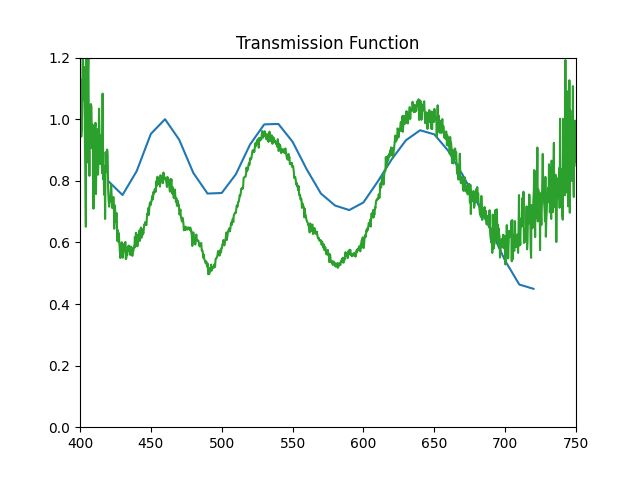
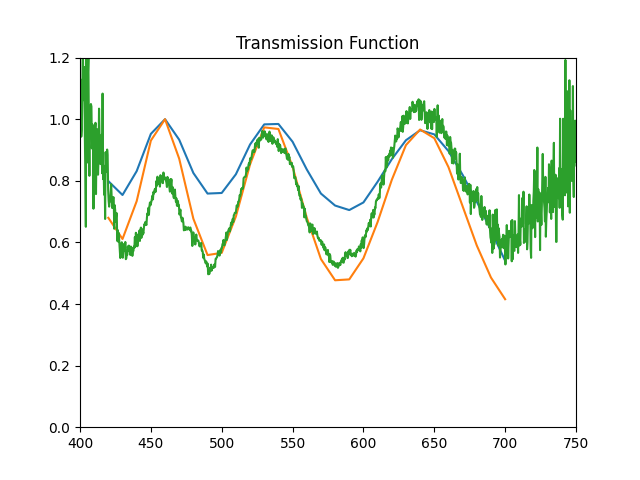
add contour plots, solved angle problem

diff --git a/LaserDiffractionTest.py b/LaserDiffractionTest.py
@@ -9,32 +9,25 @@ nm=10**-9
 cm=10**-2
 
 wavelength=633*nm
-input=input_parameters(wavelength,0.05,np.radians(-8.54),np.radians(-8.54),20*um)
-output=output_parameters(0.5,0,0,200)
+input=input_parameters(wavelength,0.05,np.radians(8.54),np.radians(-8.54),20*um)
+output=output_parameters(0.2,np.radians(8.54),np.radians(-8.54),200)
 
 screen_distance=7
-x_distance=screen_distance*np.tan(output.angle_x_array)
-y_distance=screen_distance*np.tan(output.angle_y_array)
-x_distance=output.angle_x_array_deg
-y_distance=output.angle_y_array_deg
+x_distance=np.degrees(output.angle_x_array_meshed)
+y_distance=np.degrees(output.angle_y_array_meshed)
+x_distance=screen_distance*np.tan(output.angle_x_array_meshed)
+y_distance=screen_distance*np.tan(output.angle_y_array_meshed)
 
 #Red Laser On Direction
+
 dmd=DMD_parameters('Standard',10.8*um,0.98,np.radians(12))
 [diffraction_image_on, _, E2_grating_on, E2_envelope_on] = calculate_diffraction_pattern_image(input, output,
                                                                                                     dmd)
-#Red Laser Off Direction
-dmd=DMD_parameters('Standard',10.8*um,0.98,np.radians(-12))
-[diffraction_image_off, _, E2_grating_off, E2_envelope_off] = calculate_diffraction_pattern_image(input, output,
-                                                                                                    dmd)
-#Red Laser On Direction
-dmd=DMD_parameters('Standard',10.8*um,0.98,np.radians(0))
-[diffraction_image_0, _, E2_grating_0, E2_envelope_0] = calculate_diffraction_pattern_image(input, output,
-                                                                                                    dmd)
 #plot results
 fig, ((ax1, ax2), (ax3, ax4)) = plt.subplots(2, 2)
-im1=ax1.imshow(E2_grating_on+E2_grating_off+E2_grating_0,extent=(x_distance[0],x_distance[-1],y_distance[0],y_distance[-1]))
-im2=ax2.imshow(E2_envelope_on+E2_envelope_off+E2_envelope_0,extent=(x_distance[0],x_distance[-1],y_distance[0],y_distance[-1]))
-im3=ax3.imshow(diffraction_image_on+diffraction_image_off+diffraction_image_0,extent=(x_distance[0],x_distance[-1],y_distance[0],y_distance[-1]), vmin=0, vmax=10)
+im1=ax1.contourf(x_distance,y_distance,E2_grating_on,500)
+im2=ax2.contourf(x_distance,y_distance,E2_envelope_on,500)
+im3=ax3.contourf(x_distance,y_distance,diffraction_image_on,500,vmax=5)
 #ax2.grid(color='w', linestyle='-', linewidth=2)
 fig.colorbar(im1, ax=ax1)
 fig.colorbar(im2, ax=ax2)
@@ -44,6 +37,91 @@ ax1.set_title('Grating Orders')
 ax2.set_title('Mirror Envelope')
 ax3.set_title('Combined Diffraction Pattern')
 plt.show()
-fig.savefig('Red.png')
+fig.savefig('Red_on.png')
 
-#
+ #Red Laser Off Direction
+dmd=DMD_parameters('Standard',10.8*um,0.98,np.radians(-12))
+output=output_parameters(0.2,np.radians(-22),np.radians(22),200)
+screen_distance=7
+x_distance=np.degrees(output.angle_x_array_meshed)
+y_distance=np.degrees(output.angle_y_array_meshed)
+# x_distance=screen_distance*np.tan(output.angle_x_array_meshed)
+# y_distance=screen_distance*np.tan(output.angle_y_array_meshed)
+[diffraction_image_off, _, E2_grating_off, E2_envelope_off] = calculate_diffraction_pattern_image(input, output,
+                                                                                                     dmd)
+
+#plot results
+fig, ((ax1, ax2), (ax3, ax4)) = plt.subplots(2, 2)
+im1=ax1.contourf(x_distance,y_distance,E2_grating_off,500)
+im2=ax2.contourf(x_distance,y_distance,E2_envelope_off,500)
+im3=ax3.contourf(x_distance,y_distance,diffraction_image_off,500,vmax=5)
+#ax2.grid(color='w', linestyle='-', linewidth=2)
+fig.colorbar(im1, ax=ax1)
+fig.colorbar(im2, ax=ax2)
+fig.colorbar(im3, ax=ax3)
+
+ax1.set_title('Grating Orders')
+ax2.set_title('Mirror Envelope')
+ax3.set_title('Combined Diffraction Pattern')
+plt.show()
+fig.savefig('Red_off.png')
+
+####################Green
+
+wavelength=533*nm
+input=input_parameters(wavelength,0.05,np.radians(8.54),np.radians(-8.54),20*um)
+output=output_parameters(0.2,np.radians(8.54),np.radians(-8.54),200)
+
+screen_distance=7
+x_distance=np.degrees(output.angle_x_array_meshed)
+y_distance=np.degrees(output.angle_y_array_meshed)
+x_distance=screen_distance*np.tan(output.angle_x_array_meshed)
+y_distance=screen_distance*np.tan(output.angle_y_array_meshed)
+
+#Green Laser On Direction
+
+dmd=DMD_parameters('Standard',10.8*um,0.98,np.radians(12))
+[diffraction_image_on, _, E2_grating_on, E2_envelope_on] = calculate_diffraction_pattern_image(input, output,
+                                                                                                    dmd)
+#plot results
+fig, ((ax1, ax2), (ax3, ax4)) = plt.subplots(2, 2)
+im1=ax1.contourf(x_distance,y_distance,E2_grating_on,500)
+im2=ax2.contourf(x_distance,y_distance,E2_envelope_on,500)
+im3=ax3.contourf(x_distance,y_distance,diffraction_image_on,500,vmax=5)
+#ax2.grid(color='w', linestyle='-', linewidth=2)
+fig.colorbar(im1, ax=ax1)
+fig.colorbar(im2, ax=ax2)
+fig.colorbar(im3, ax=ax3)
+
+ax1.set_title('Grating Orders')
+ax2.set_title('Mirror Envelope')
+ax3.set_title('Combined Diffraction Pattern')
+plt.show()
+fig.savefig('Green_on.png')
+
+ #Green Laser Off Direction
+dmd=DMD_parameters('Standard',10.8*um,0.98,np.radians(-12))
+output=output_parameters(0.2,np.radians(-22),np.radians(22),200)
+screen_distance=7
+x_distance=np.degrees(output.angle_x_array_meshed)
+y_distance=np.degrees(output.angle_y_array_meshed)
+# x_distance=screen_distance*np.tan(output.angle_x_array_meshed)
+# y_distance=screen_distance*np.tan(output.angle_y_array_meshed)
+[diffraction_image_off, _, E2_grating_off, E2_envelope_off] = calculate_diffraction_pattern_image(input, output,
+                                                                                                     dmd)
+
+#plot results
+fig, ((ax1, ax2), (ax3, ax4)) = plt.subplots(2, 2)
+im1=ax1.contourf(x_distance,y_distance,E2_grating_off,500)
+im2=ax2.contourf(x_distance,y_distance,E2_envelope_off,500)
+im3=ax3.contourf(x_distance,y_distance,diffraction_image_off,500,vmax=5)
+#ax2.grid(color='w', linestyle='-', linewidth=2)
+fig.colorbar(im1, ax=ax1)
+fig.colorbar(im2, ax=ax2)
+fig.colorbar(im3, ax=ax3)
+
+ax1.set_title('Grating Orders')
+ax2.set_title('Mirror Envelope')
+ax3.set_title('Combined Diffraction Pattern')
+plt.show()
+fig.savefig('Green_off.png')

diff --git a/main.py b/main.py
@@ -27,7 +27,7 @@ for i in np.arange(np.size(wavelengths)):
      [diffraction_image,total_power_collected,E2_grating,E2_envelope]=calculate_diffraction_pattern_image(input, output, dmd)
      transmission_collected[i] = total_power_collected
 
-     [diffraction_image_int,total_power_collected_integrated,E2_grating_int,E2_envelope_int]=diff_image_integrated_input_NA(input, output, dmd, 20) # 20-50 ok
+     [diffraction_image_int,total_power_collected_integrated,E2_grating_int,E2_envelope_int]=diff_image_integrated_input_NA(input, output, dmd, 1) # 20-50 ok
      transmission_collected_integrated[i] = total_power_collected_integrated
      print('Wavelength =' +str(input.wavelength/nm)+'nm')
 
@@ -38,9 +38,9 @@ transmission_experimental=experimental_data.loc[:,'Transmission'].to_numpy()
 
 #plot results
 fig, ((ax1, ax2), (ax3, ax4)) = plt.subplots(2, 2)
-im1=ax1.imshow(E2_grating,extent=(output.angle_x_array_deg[0],output.angle_x_array_deg[-1],output.angle_y_array_deg[0],output.angle_y_array_deg[-1]))
-im2=ax2.imshow(E2_envelope,extent=(output.angle_x_array_deg[0],output.angle_x_array_deg[-1],output.angle_y_array_deg[0],output.angle_y_array_deg[-1]))
-im3=ax3.imshow(diffraction_image,extent=(output.angle_x_array_deg[0],output.angle_x_array_deg[-1],output.angle_y_array_deg[0],output.angle_y_array_deg[-1]))
+im1=ax1.contourf(np.degrees(output.angle_x_array_meshed),np.degrees(output.angle_y_array_meshed),E2_grating,500)
+im2=ax2.contourf(np.degrees(output.angle_x_array_meshed),np.degrees(output.angle_y_array_meshed),E2_envelope,500)
+im3=ax3.contourf(np.degrees(output.angle_x_array_meshed),np.degrees(output.angle_y_array_meshed),diffraction_image,500)
 
 ax4.plot(wavelengths/nm,transmission_collected/max(transmission_collected))
 ax4.plot(wavelengths_experimental,transmission_experimental)
@@ -54,12 +54,12 @@ fig.colorbar(im3, ax=ax3)
 ax1.set_title('Grating Orders')
 ax2.set_title('Mirror Envelope')
 ax3.set_title('Combined Diffraction Pattern')
-fig.savefig('Figure_single.png')
+#fig.savefig('Figure_single.png')
 
 fig, ((ax1, ax2), (ax3, ax4)) = plt.subplots(2, 2)
-im1=ax1.imshow(E2_grating_int,extent=(output.angle_x_array_deg[0],output.angle_x_array_deg[-1],output.angle_y_array_deg[0],output.angle_y_array_deg[-1]))
-im2=ax2.imshow(E2_envelope_int,extent=(output.angle_x_array_deg[0],output.angle_x_array_deg[-1],output.angle_y_array_deg[0],output.angle_y_array_deg[-1]))
-im3=ax3.imshow(diffraction_image_int,extent=(output.angle_x_array_deg[0],output.angle_x_array_deg[-1],output.angle_y_array_deg[0],output.angle_y_array_deg[-1]))
+im1=ax1.contourf(np.degrees(output.angle_x_array_meshed),np.degrees(output.angle_y_array_meshed),E2_grating_int,100)
+im2=ax2.contourf(np.degrees(output.angle_x_array_meshed),np.degrees(output.angle_y_array_meshed),E2_envelope_int,100)
+im3=ax3.contourf(np.degrees(output.angle_x_array_meshed),np.degrees(output.angle_y_array_meshed),diffraction_image_int,100)
 ax4.plot(wavelengths/nm,transmission_collected_integrated/max(transmission_collected_integrated))
 ax4.plot(wavelengths_experimental,transmission_experimental)
 ax4.set_xlim((420,700))
@@ -72,7 +72,7 @@ fig.colorbar(im3, ax=ax3)
 ax1.set_title('Grating Orders')
 ax2.set_title('Mirror Envelope')
 ax3.set_title('Combined Diffraction Pattern')
-fig.savefig('Figure_integrated.png')
+#fig.savefig('Figure_integrated.png')
 
 
 
@@ -83,6 +83,6 @@ plt.plot(wavelengths_experimental,transmission_experimental)
 plt.xlim((400,750))
 plt.ylim((0,1.2))
 plt.title('Transmission Function')
-fig.savefig('Transmission_Plot.png')
+#fig.savefig('Transmission_Plot.png')
 plt.show()
 

diff --git a/functions.py b/functions.py
@@ -12,8 +12,6 @@ import time
 # sort normalization of E so that can calculate total power, and transmission as a percentage.
 # speed up timing
 # run other tests e.g. transmission vs NA, vs beam size, vs beam angle
-# save figures?
-#check mirror off direction
 #scaling of power/transmission
 
 class DMD_parameters:
@@ -64,7 +62,7 @@ class output_parameters:
 class vector:
     def __init__(self, angle_x, angle_y, direction):
         self.z = direction*1 / \
-            np.sqrt(np.tan(angle_x)** 2 + np.tan(angle_y) ** 2 + 1)
+            np.sqrt(1-np.tan(angle_x)** 2-np.tan(angle_y) ** 2)
         self.x = self.z * np.tan(angle_x)
         self.y = self.z * np.tan(angle_y)
 
@@ -73,7 +71,7 @@ def envelope_function(input, output, dmd):
     #https://www.biorxiv.org/content/10.1101/2020.10.02.323527v1.supplementary-material
     #https://www.biorxiv.org/content/10.1101/2020.07.27.223941v3.supplementary-material
 
-    #doesnt work for all mirror angles
+    #doesnt work for all mirror angles DO NOT TRUST THIS!!!!!!!!
     w = dmd.mirror_width
     c = np.cos(dmd.tilt_angle)
     s = np.sin(dmd.tilt_angle)
@@ -81,8 +79,8 @@ def envelope_function(input, output, dmd):
     b = output.beam_vector
     diff = [a.x-b.x, a.y-b.y, a.z-b.z]
 
-    f1 = diff[0]*0.5*(1+c)+diff[1]*-0.5*(1-c)+diff[2]*(s/np.sqrt(2))
-    f2 = diff[0] * -0.5 * (1 - c) + diff[1] * 0.5 * (1 + c) + diff[2] * ( s / np.sqrt(2))
+    f1 = diff[0]*0.5*(1+c)+diff[1]*0.5*(1-c)+diff[2]*(-s/np.sqrt(2))
+    f2 = diff[0] * 0.5 * (1 - c) + diff[1] * 0.5 * (1 + c) + diff[2] * ( s / np.sqrt(2))
 
     A = np.pi*f1*w/input.wavelength
     B = np.pi * f2*w/ input.wavelength
